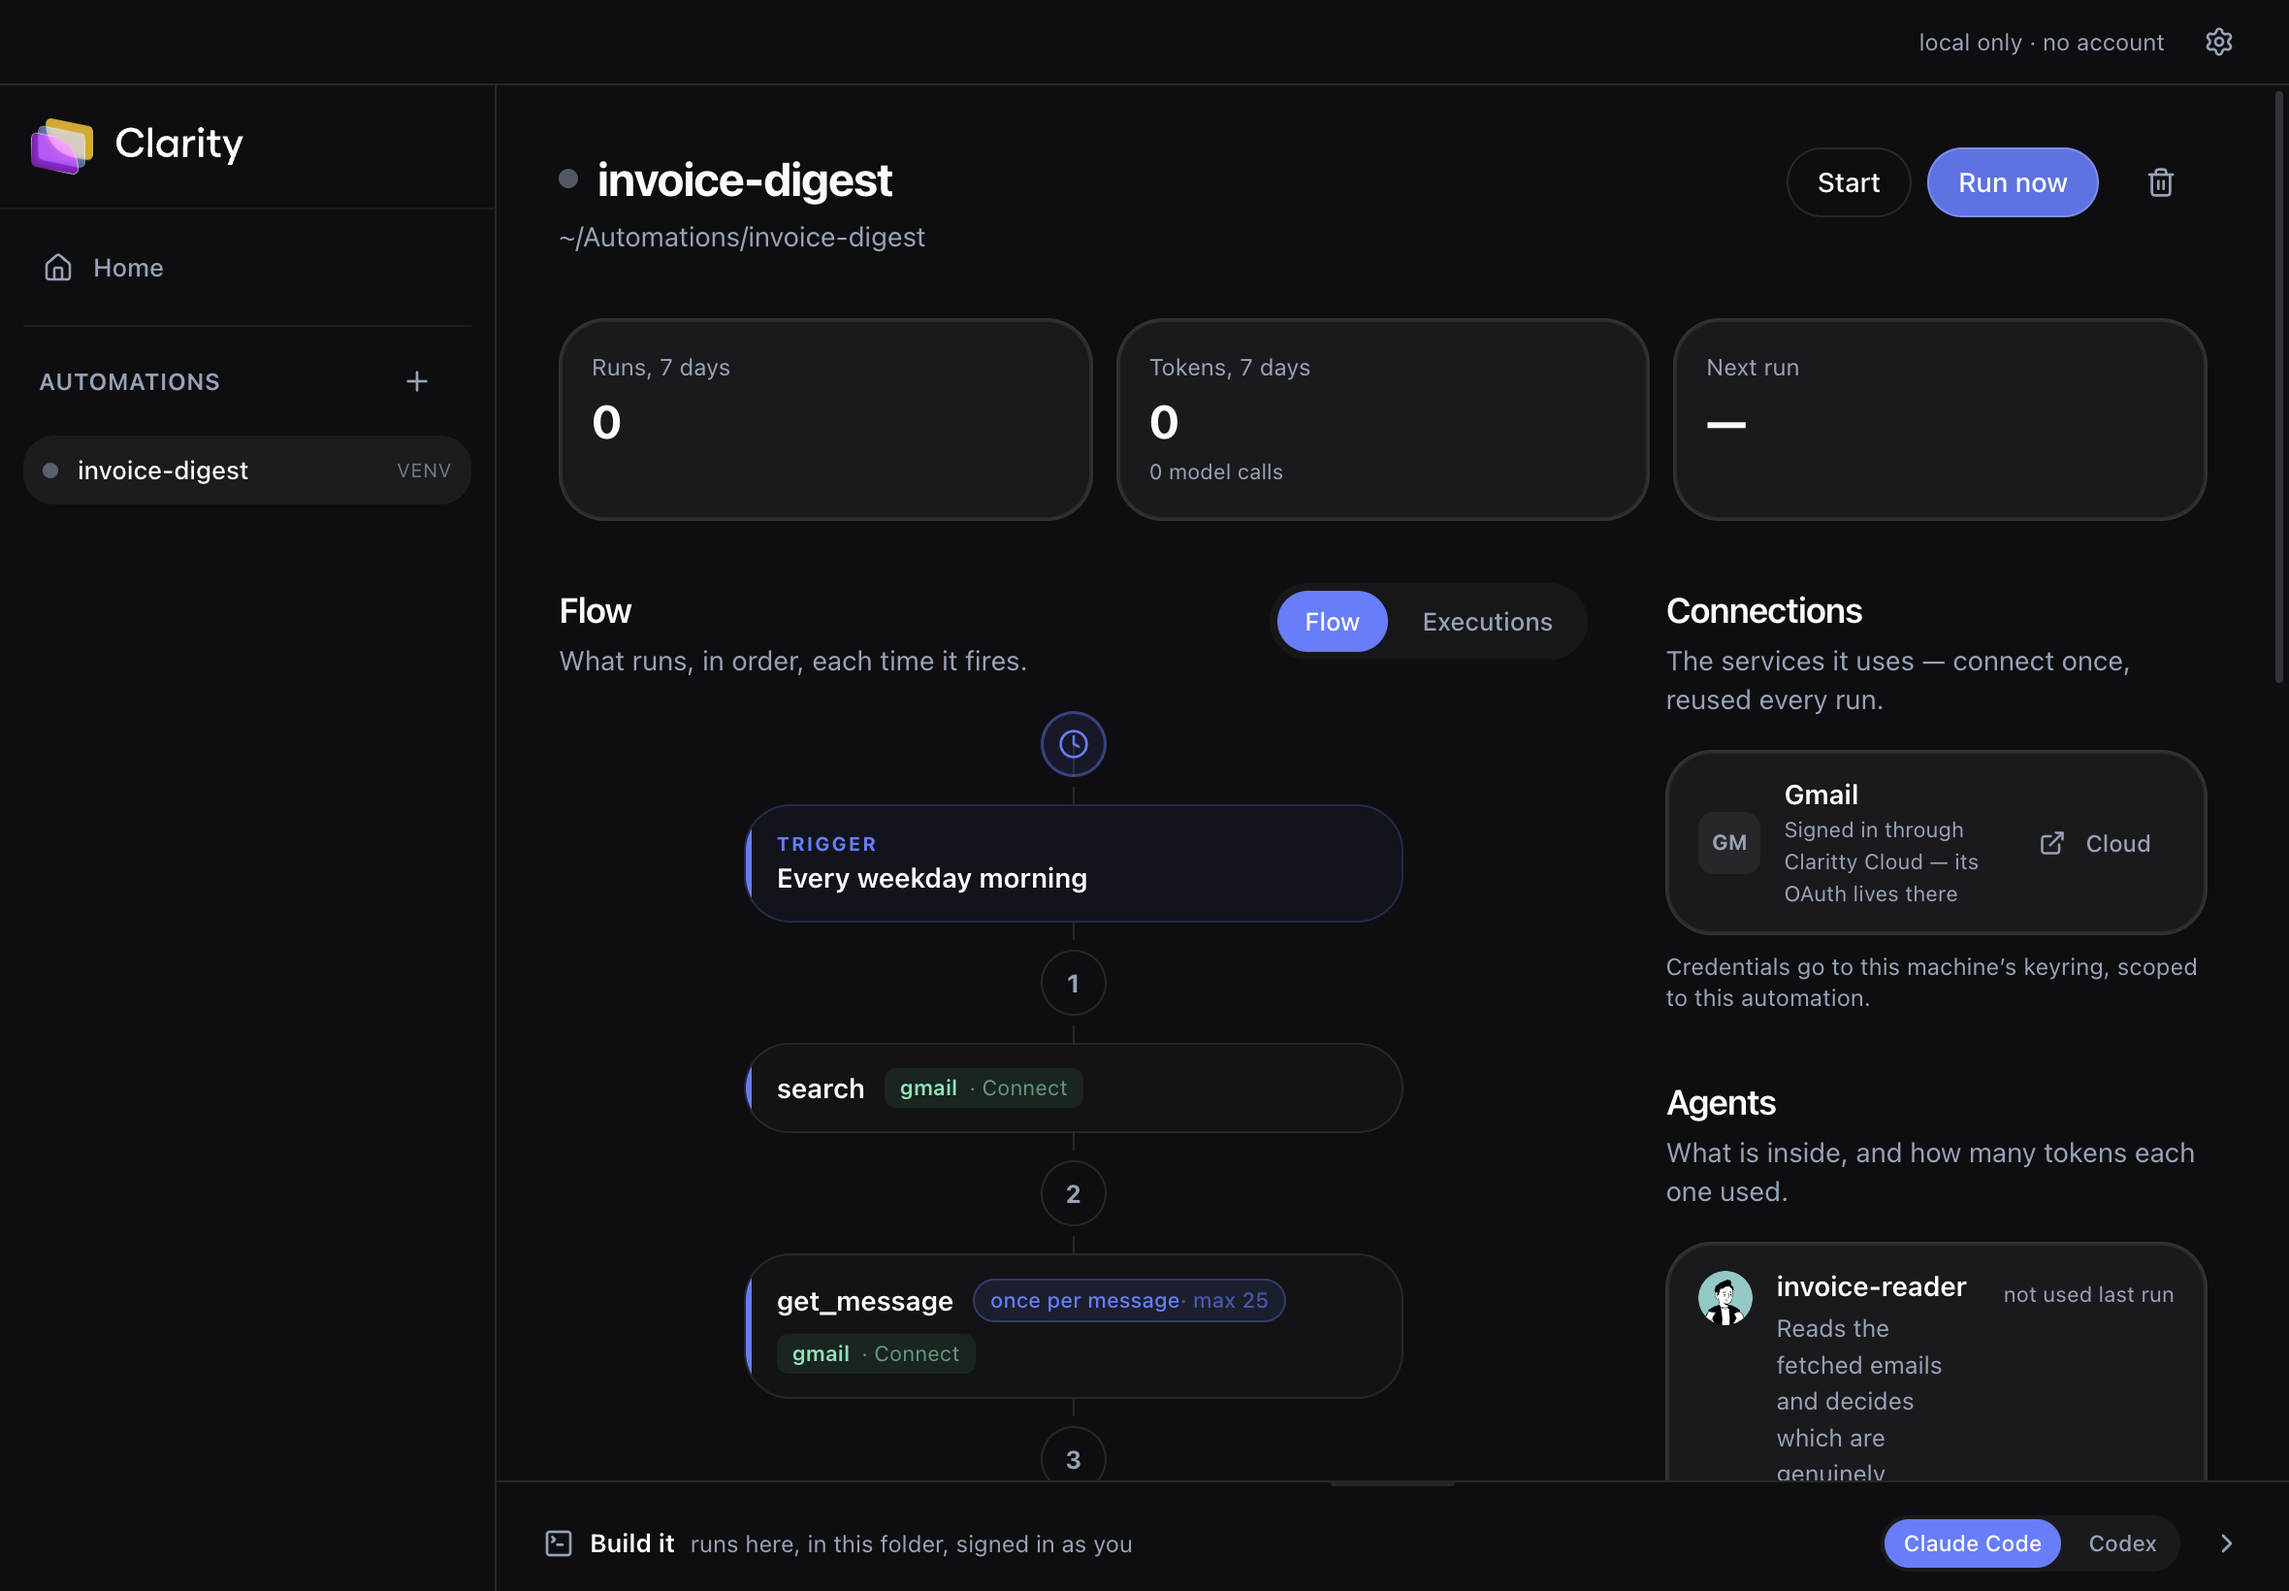
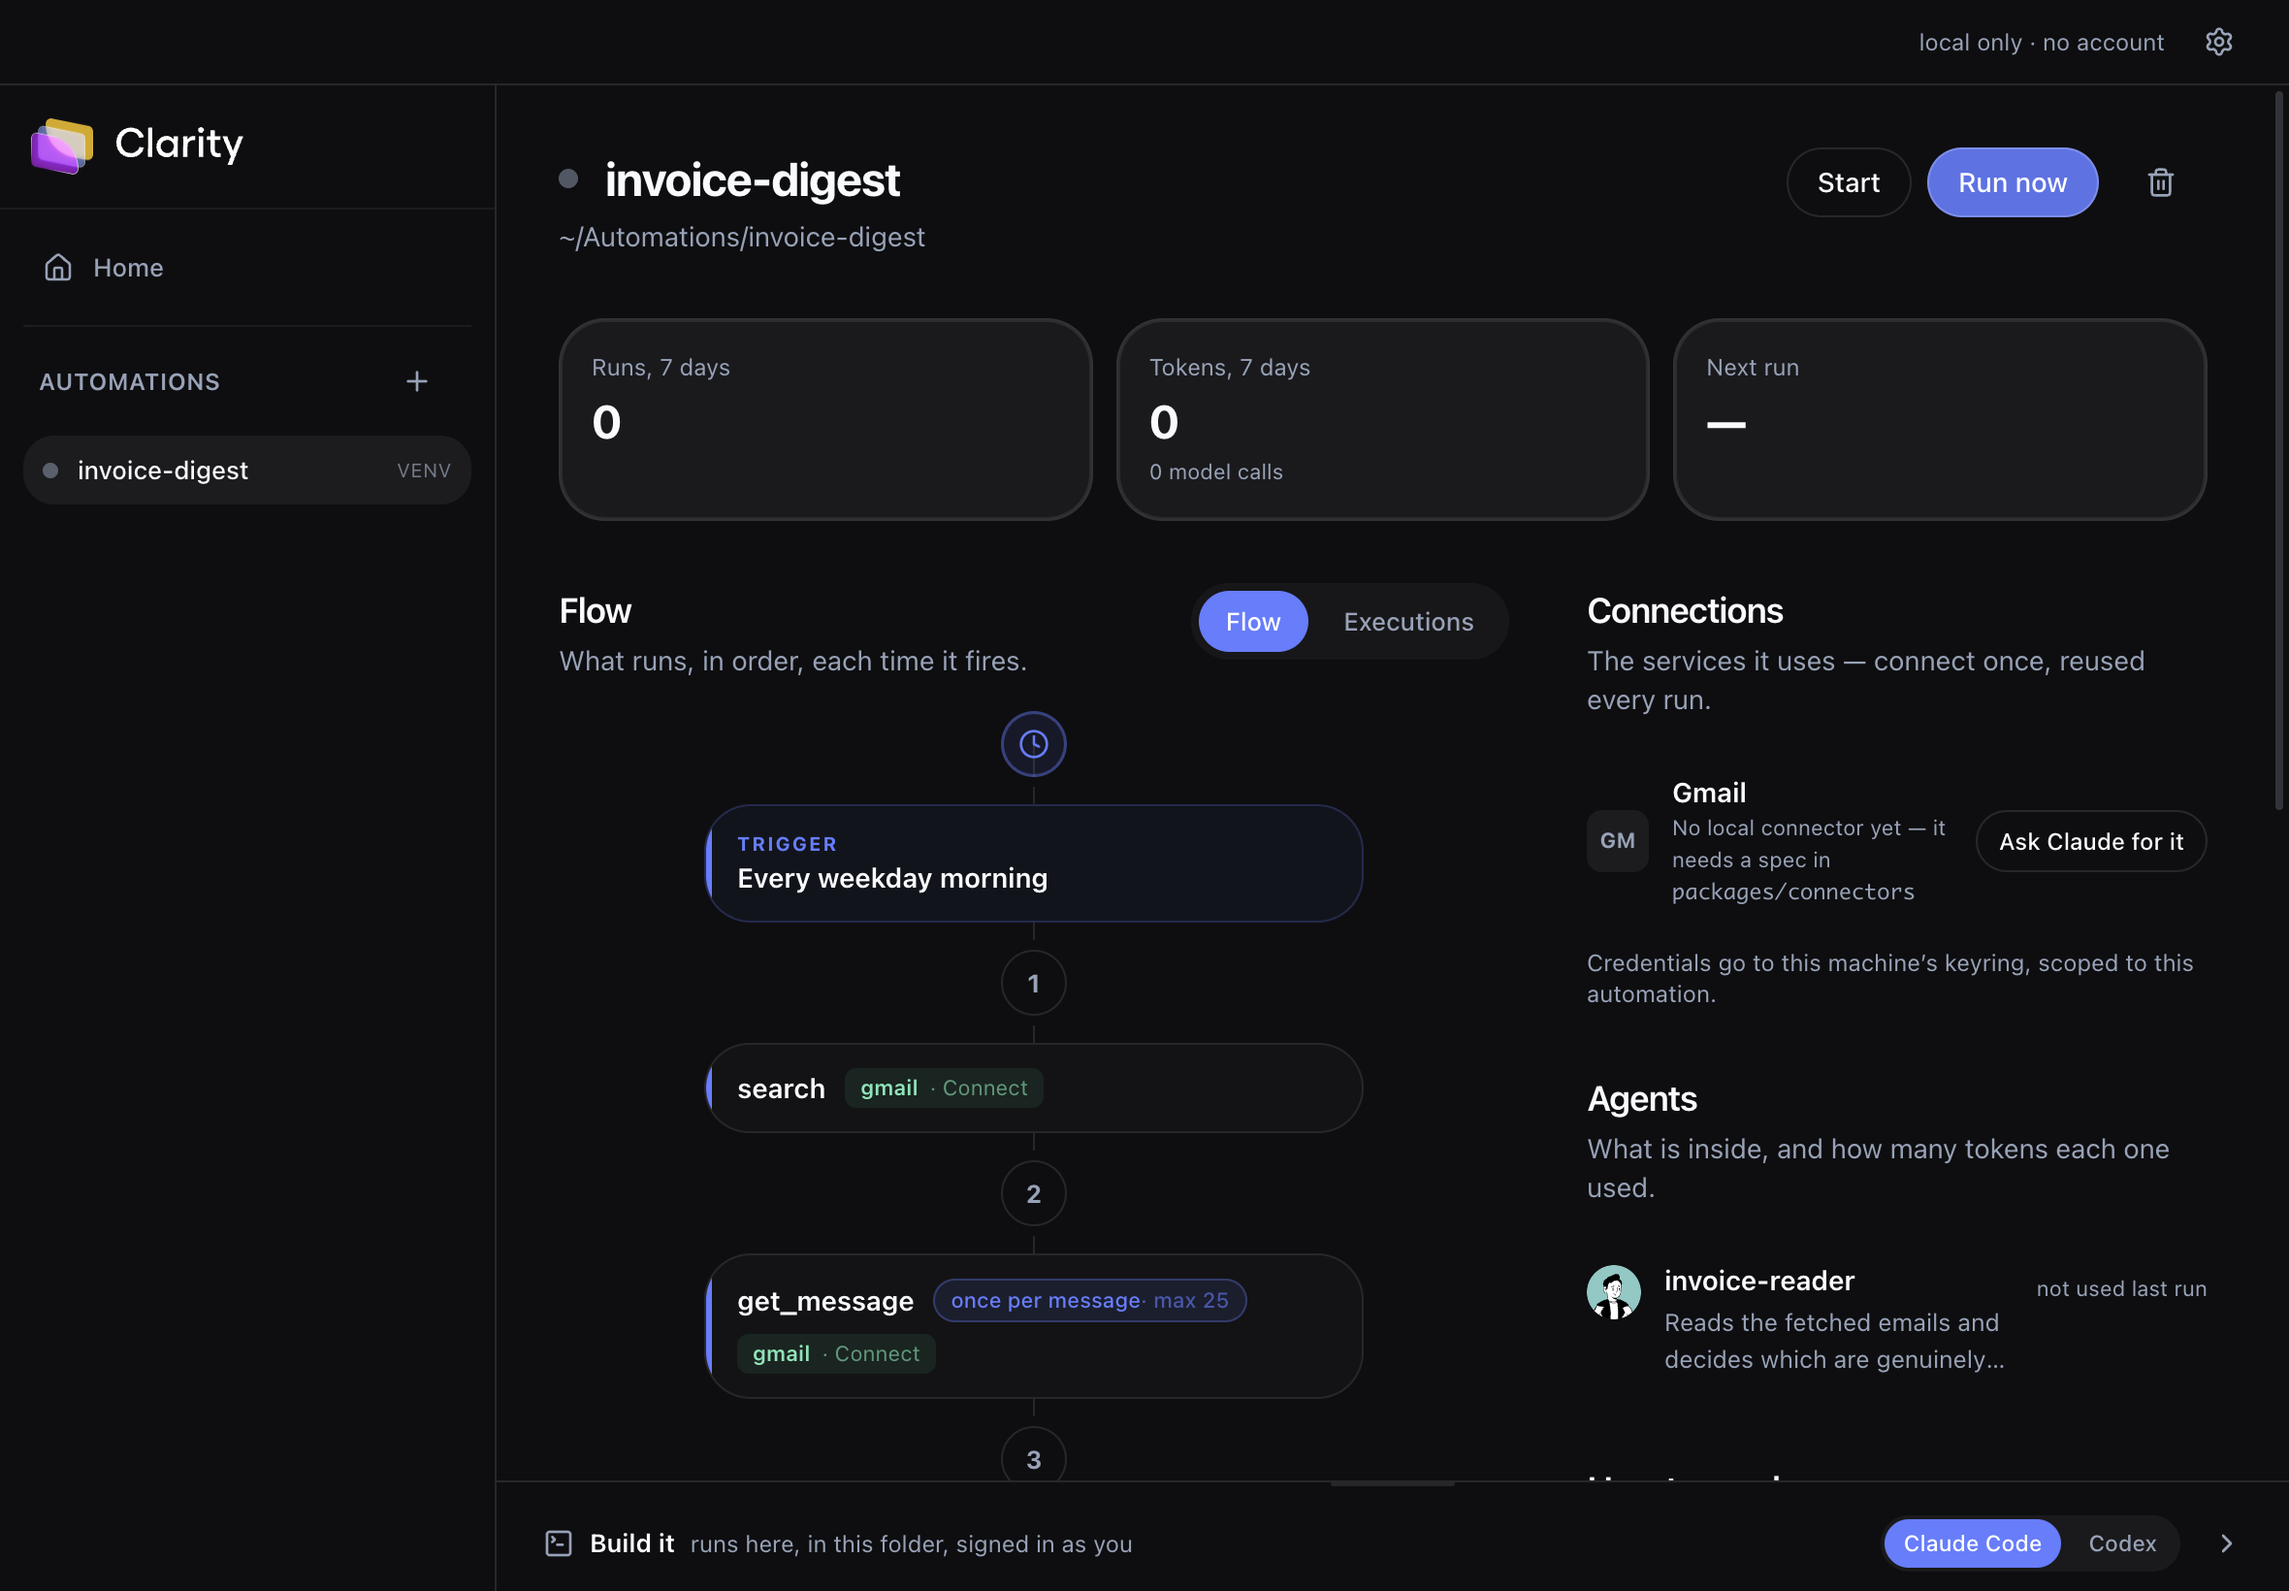
The right column is a list, not a stack of plates
I ported the platform's "don't default to card layouts" rule into
EmptyState and then broke it three panels later: Connections, Agents,
Triggers and How-to-reach-you were each a glass card wrapping rows. In a
320px column that squeezed an agent's description to roughly one word per
line, which is what made it look wrong.

They are divided lists on the page now. The four Cards that remain are
genuine surfaces — a stat tile, a run row, the crashed-automation banner —
and keep their plate.

The column also gained 60px and the agent description clamps to two lines,
so a sentence reads as a sentence.

Worth noting how this nearly went badly: my first attempt blanket-replaced
`</Card>`, which closed the wrong four blocks, and I started repairing it
by line number — patching a bad edit with guesses. Reverting and matching
open/close as balanced pairs took one pass and was correct the first time.

diff --git a/apps/desktop/src/renderer/App.tsx b/apps/desktop/src/renderer/App.tsx
@@ -610,7 +610,7 @@ function ProjectView({
         />
       </div>
 
-      <div className="grid grid-cols-1 gap-10 lg:grid-cols-[minmax(0,1.9fr)_minmax(260px,1fr)]">
+      <div className="grid grid-cols-1 gap-10 lg:grid-cols-[minmax(0,1.7fr)_minmax(320px,1fr)]">
       <Band
         title={tab === 'flow' ? 'Flow' : 'Executions'}
         subtitle={
@@ -681,11 +681,11 @@ function ProjectView({
             body="This automation only runs when you press Run. Give it a schedule and it will run on its own — while Studio is open."
           />
         ) : (
-          <Card className="divide-y divide-border">
+          <div className="divide-y divide-border/60">
             {triggers.map((trigger) => (
               <TriggerRow key={trigger.id} trigger={trigger} />
             ))}
-          </Card>
+          </div>
         )}
       </Band>
       </aside>
@@ -915,7 +915,7 @@ function nextRunLabel(triggers: Trigger[]): string {
 
 function TriggerRow({ trigger }: { trigger: Trigger }) {
   return (
-    <div className="flex items-center gap-3 px-4 py-3">
+    <div className="flex items-center gap-3 py-3">
       <StatusDot status={trigger.enabled ? 'running' : 'stopped'} />
       <div className="min-w-0 flex-1">
         <p className="truncate text-sm font-medium">{trigger.recipeTriggerId}</p>
@@ -971,7 +971,7 @@ function RunRow({ run, open, onToggle }: { run: Run; open: boolean; onToggle: ()
       <button
         type="button"
         onClick={onToggle}
-        className="flex w-full items-center gap-3 px-4 py-3 text-left transition-colors hover:bg-foreground/[0.03]"
+        className="-mx-2 flex w-full items-center gap-3 rounded-xl px-2 py-3 text-left transition-colors hover:bg-foreground/[0.03]"
       >
         <StatusDot status={verdict.status} />
         <div className="min-w-0 flex-1">
@@ -1110,11 +1110,11 @@ function AgentsBand({
   }
 
   return (
-    <Card className="divide-y divide-border">
+    <div className="divide-y divide-border/60">
       {agents.map((agent) => {
         const used = spent.get(agent.id);
         return (
-          <div key={agent.id} className="flex items-start gap-3 px-4 py-3">
+          <div key={agent.id} className="flex items-start gap-3 py-3">
             {/* The same face the canvas and the showcase draw for this agent —
                 AgentAvatar is a pure function of the seed, so an agent looks
                 like itself everywhere. A generic sparkle made every agent
@@ -1133,7 +1133,9 @@ function AgentsBand({
                 ))}
               </div>
               {agent.description && (
-                <p className="mt-0.5 text-[12.5px] text-muted-foreground">{agent.description}</p>
+                <p className="mt-0.5 line-clamp-2 text-[12.5px] text-muted-foreground">
+                  {agent.description}
+                </p>
               )}
               {agent.tools.length > 0 && (
                 <p className="mt-1 font-mono text-[11px] text-muted-foreground/80">
@@ -1158,7 +1160,7 @@ function AgentsBand({
           </div>
         );
       })}
-    </Card>
+    </div>
   );
 }
 
@@ -1206,9 +1208,9 @@ function ModelBand() {
 
   return (
     <div className="flex flex-col gap-2">
-      <Card className="divide-y divide-border">
+      <div className="divide-y divide-border/60">
         {providers.map((provider) => (
-          <div key={provider.id} className="flex flex-wrap items-center gap-3 px-4 py-3">
+          <div key={provider.id} className="flex flex-wrap items-center gap-3 py-3">
             <span className="text-sm font-semibold capitalize text-foreground">{provider.id}</span>
             {provider.hasKey ? (
               <span className="rounded-md bg-emerald-500/10 px-1.5 py-0.5 font-mono text-[11px] text-emerald-700 dark:text-emerald-300">
@@ -1293,7 +1295,7 @@ function ModelBand() {
             )}
           </div>
         ))}
-      </Card>
+      </div>
       {error && <p className="text-sm text-destructive">{error}</p>}
       <p className="text-xs text-muted-foreground">
         Stored in this machine&rsquo;s keyring. Runs spend it; the Build-it terminal never does.
@@ -1490,7 +1492,7 @@ const LOCAL_SERVERS: Array<{ name: string; url: string; note: string }> = [
 function LocalModelHelp() {
   return (
     <div className="flex flex-col gap-4">
-      <Card className="divide-y divide-border">
+      <div className="divide-y divide-border/60">
         {LOCAL_SERVERS.map((server) => (
           <div key={server.name} className="flex flex-wrap items-center gap-3 px-4 py-2.5">
             <span className="w-24 shrink-0 text-sm font-semibold text-foreground">
@@ -1504,7 +1506,7 @@ function LocalModelHelp() {
             </span>
           </div>
         ))}
-      </Card>
+      </div>
 
       <div>
         <p className="mb-2 text-xs text-muted-foreground">
@@ -1558,7 +1560,7 @@ function AutomationsFolder() {
 
   return (
     <Card>
-      <div className="flex flex-wrap items-center gap-3 px-4 py-3">
+      <div className="flex flex-wrap items-center gap-3 py-3">
         <FolderOpen className="h-4 w-4 shrink-0 text-muted-foreground" />
         <code className="min-w-0 flex-1 truncate font-mono text-[12.5px]" data-selectable>
           {root ? tildePath(root) : '…'}
@@ -1695,7 +1697,7 @@ function HomeView({
               }
             />
           ) : (
-            <Card className="divide-y divide-border">
+            <div className="divide-y divide-border/60">
               {ordered.map((project) => {
                 const run = lastRun[project.id];
                 const broken = project.status === 'crashed' || run?.status === 'failed';
@@ -1704,7 +1706,7 @@ function HomeView({
                     key={project.id}
                     type="button"
                     onClick={() => onSelect(project.id)}
-                    className="flex w-full items-start gap-3 px-4 py-3 text-left transition-colors hover:bg-foreground/[0.03]"
+                    className="-mx-2 flex w-full items-start gap-3 rounded-xl px-2 py-3 text-left transition-colors hover:bg-foreground/[0.03]"
                   >
                     <StatusDot status={project.status as Status} className="mt-1.5" />
                     <div className="min-w-0 flex-1">
@@ -1729,7 +1731,7 @@ function HomeView({
                   </button>
                 );
               })}
-            </Card>
+            </div>
           )}
         </Band>
 
@@ -1837,9 +1839,9 @@ function ConnectionsBand({
 
   return (
     <div className="flex flex-col gap-2">
-      <Card className="divide-y divide-border">
+      <div className="divide-y divide-border/60">
         {rows.map((row) => (
-          <div key={row.id} className="px-4 py-3">
+          <div key={row.id} className="py-3">
             <div className="flex items-center gap-3">
               <span className="grid h-8 w-8 shrink-0 place-items-center rounded-lg bg-foreground/[0.06] text-[11px] font-bold uppercase text-muted-foreground">
                 {row.id.slice(0, 2)}
@@ -1942,7 +1944,7 @@ function ConnectionsBand({
             )}
           </div>
         ))}
-      </Card>
+      </div>
       {error && <p className="text-sm text-destructive">{error}</p>}
       <p className="text-xs text-muted-foreground">
         Credentials go to this machine&rsquo;s keyring, scoped to this automation.
@@ -1990,11 +1992,11 @@ function NotifyBand({ projectId }: { projectId: string }) {
 
   return (
     <div className="flex flex-col gap-2">
-      <Card className="divide-y divide-border">
+      <div className="divide-y divide-border/60">
         <button
           type="button"
           onClick={() => void update({ desktop: !prefs.desktop })}
-          className="flex w-full items-center gap-3 px-4 py-3 text-left transition-colors hover:bg-foreground/[0.03]"
+          className="-mx-2 flex w-full items-center gap-3 rounded-xl px-2 py-3 text-left transition-colors hover:bg-foreground/[0.03]"
         >
           <Bell className="h-4 w-4 shrink-0 text-muted-foreground" />
           <div className="min-w-0 flex-1">
@@ -2018,7 +2020,7 @@ function NotifyBand({ projectId }: { projectId: string }) {
           </span>
         </button>
 
-        <div className="flex items-center gap-3 px-4 py-3">
+        <div className="flex items-center gap-3 py-3">
           <Send className="h-4 w-4 shrink-0 text-muted-foreground" />
           <div className="min-w-0 flex-1">
             <div className="text-sm font-semibold text-foreground">Slack</div>
@@ -2030,7 +2032,7 @@ function NotifyBand({ projectId }: { projectId: string }) {
 
         {/* Named, not hidden: knowing why something is missing beats
             wondering. And the fix is a connector in this repo, not an account. */}
-        <div className="flex items-center gap-3 px-4 py-3">
+        <div className="flex items-center gap-3 py-3">
           <div className="min-w-0 flex-1">
             <div className="text-sm font-semibold text-muted-foreground">
               Email · Telegram · WhatsApp
@@ -2044,7 +2046,7 @@ function NotifyBand({ projectId }: { projectId: string }) {
             Request it
           </Button>
         </div>
-      </Card>
+      </div>
 
       <div className="flex items-center gap-2">
         <Button
